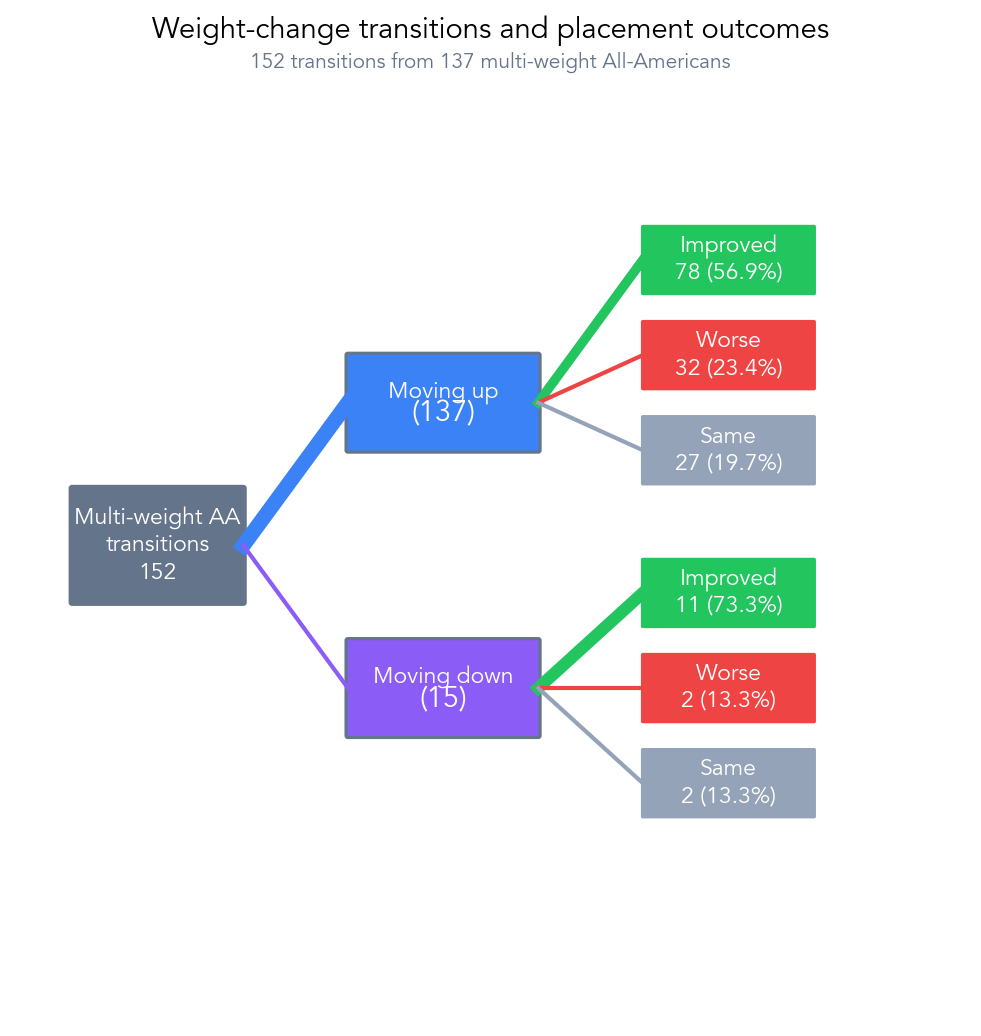
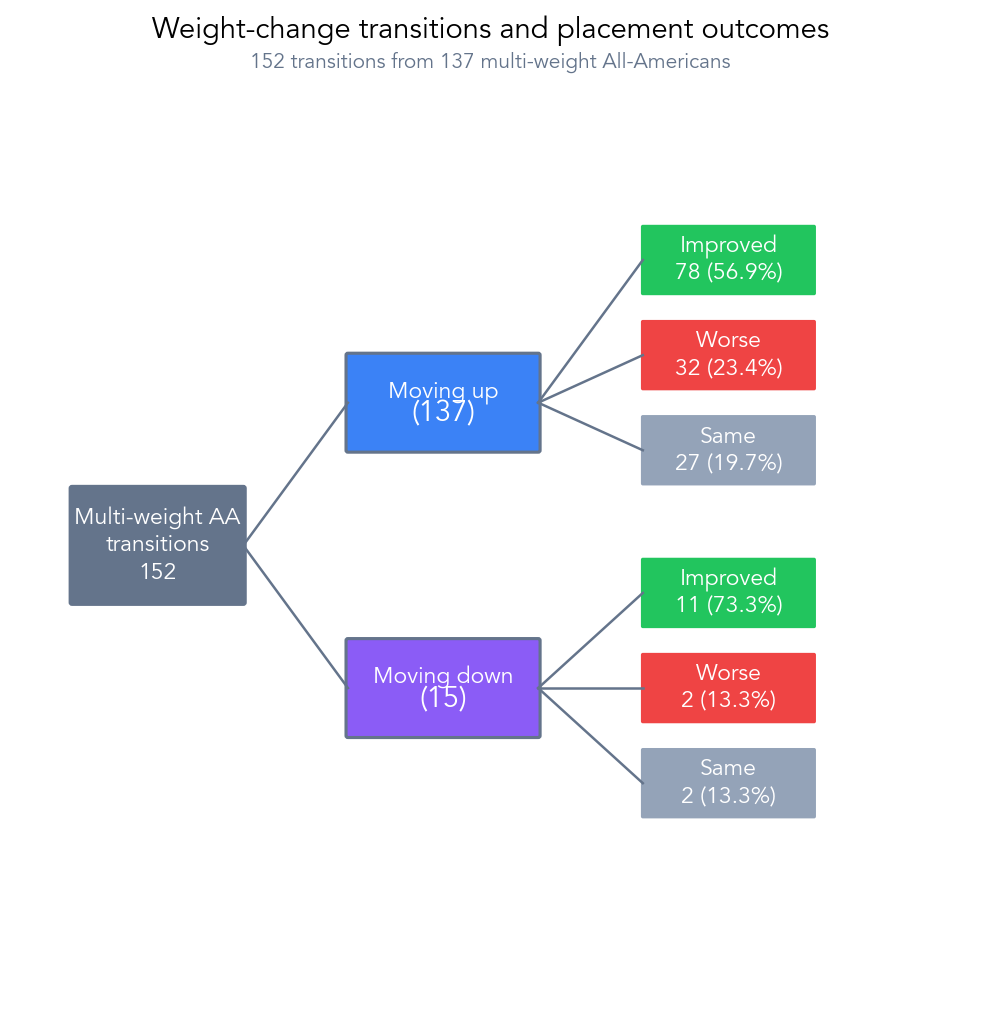
Fix expand title (118 Wrestlers), 3-column list, restore hover tooltip
- Expand heading: 'Wrestlers (n=118)' -> '118 Wrestlers'
- 3-column layout: add webkit prefixed column-count/gap for Safari
- Tooltip: add tooltip/expand CSS to site/styles.css; inject fallback styles in script

diff --git a/site/styles.css b/site/styles.css
@@ -131,69 +131,6 @@ tr:hover {
     background-color: #f7fafc;
 }
 
-/* Eligibility combo tables (Report 02: when AA/NC was earned by year) */
-.combo-tier-header {
-    text-align: center;
-    margin-top: 0;
-    margin-bottom: 0.5rem;
-}
-.eligibility-combo-table {
-    --combo-border: #94a3b8;
-    margin-bottom: 2.5rem;
-}
-.eligibility-combo-table:last-child {
-    margin-bottom: 1rem;
-}
-.eligibility-combo-table thead th {
-    background-color: #9ca3af;
-    color: #fff;
-    text-align: center;
-}
-/* Center Count and % columns in all combo tables */
-.eligibility-combo-table td:nth-child(6),
-.eligibility-combo-table td:nth-child(7) {
-    text-align: center;
-}
-.eligibility-combo-table th,
-.eligibility-combo-table td {
-    border-left: 1px solid var(--combo-border);
-    vertical-align: middle;
-}
-.eligibility-combo-table th:first-child,
-.eligibility-combo-table td:first-child {
-    border-left: none;
-}
-/* Subtle borders between eligibility columns (Fr–SSr) so they show on shaded cells */
-.eligibility-combo-table th:nth-child(-n+5),
-.eligibility-combo-table td:nth-child(-n+5) {
-    border-right: 1px solid var(--combo-border);
-}
-.eligibility-combo-table .combo-yes,
-.eligibility-combo-table .combo-no {
-    text-align: center;
-}
-.eligibility-combo-table .combo-yes {
-    background-color: #93c5fd;
-    border-radius: 6px;
-    font-size: 1.2em;
-}
-.eligibility-combo-table .combo-yes-nc {
-    background-color: #d4af37;
-    color: #1a1a1a;
-    border-radius: 6px;
-    text-align: center;
-    font-size: 1.2em;
-}
-.eligibility-combo-table .combo-no {
-    color: var(--color-text-muted);
-}
-.combo-names {
-    font-size: 0.8rem;
-    color: var(--color-text-muted);
-    margin-top: 0.25rem;
-    margin-bottom: 1rem;
-}
-
 /* Combo table rows with wrestler list: clickable, pointer cursor */
 .eligibility-combo-table tbody tr[data-wrestlers] {
     cursor: pointer;
@@ -271,6 +208,7 @@ tr:hover {
 @media (max-width: 600px) {
     .combo-expand-container .combo-expand-list {
         column-count: 2;
+        -webkit-column-count: 2;
     }
 }
 

diff --git a/notebooks/analysis.py b/notebooks/analysis.py
@@ -758,28 +758,24 @@ if len(transitions_df) > 0:
     for x, y, label, color in outcome_specs:
         draw_box(x, y, out_w, out_h, label, color, "white", borderless=True)
 
-    # Line widths: max(2, count/max_count * 8)
-    n_total = weight_move_stats["n_transitions"]
-    n_up = weight_move_stats["moves_up"]
-    n_down = weight_move_stats["moves_down"]
+    # Uniform thin connectors (single color)
     left_right = 1.5 + left_w / 2  # left box right edge
     mid_left = 4.5 - mid_w / 2
     mid_right = 4.5 + mid_w / 2
     right_left = 7.5 - out_w / 2
+    connector_color = FLOW_LEFT
+    connector_lw = 1.2
 
-    # Connectors: left -> middle (color by destination)
-    lw_up = max(2, n_up / n_total * 8)
-    lw_down = max(2, n_down / n_total * 8)
-    ax.plot([left_right, mid_left], [5, 6.5], color=FLOW_UP, lw=lw_up)
-    ax.plot([left_right, mid_left], [5, 3.5], color=FLOW_DOWN, lw=lw_down)
+    # Connectors: left -> middle
+    ax.plot([left_right, mid_left], [5, 6.5], color=connector_color, lw=connector_lw)
+    ax.plot([left_right, mid_left], [5, 3.5], color=connector_color, lw=connector_lw)
 
-    # Connectors: middle -> right (color by destination, lw by count)
-    up_outcomes = [(8.0, weight_move_stats["up_improved"], FLOW_GREEN), (7.0, weight_move_stats["up_worse"], FLOW_RED), (6.0, weight_move_stats["up_same"], FLOW_GREY)]
-    down_outcomes = [(4.5, weight_move_stats["down_improved"], FLOW_GREEN), (3.5, weight_move_stats["down_worse"], FLOW_RED), (2.5, weight_move_stats["down_same"], FLOW_GREY)]
+    # Connectors: middle -> right
+    up_outcomes = [(8.0, weight_move_stats["up_improved"]), (7.0, weight_move_stats["up_worse"]), (6.0, weight_move_stats["up_same"])]
+    down_outcomes = [(4.5, weight_move_stats["down_improved"]), (3.5, weight_move_stats["down_worse"]), (2.5, weight_move_stats["down_same"])]
     for mid_y, outcomes in [(6.5, up_outcomes), (3.5, down_outcomes)]:
-        for oy, count, dest_color in outcomes:
-            lw = max(2, count / (n_up if mid_y == 6.5 else n_down) * 8)
-            ax.plot([mid_right, right_left], [mid_y, oy], color=dest_color, lw=lw)
+        for oy, count in outcomes:
+            ax.plot([mid_right, right_left], [mid_y, oy], color=connector_color, lw=connector_lw)
     plt.tight_layout()
     flow_path = CHARTS_DIR / "weight_change_flow.png"
     flow_site_path = SITE_CHARTS_DIR / "weight_change_flow.png"
@@ -973,6 +969,14 @@ nc_combo_html_lines.append("""
   var expandContainer = null;
   var allRows = null;
 
+  function ensureTooltipStyles() {
+    if (document.getElementById('wrestler-tooltip-styles')) return;
+    var style = document.createElement('style');
+    style.id = 'wrestler-tooltip-styles';
+    style.textContent = '.wrestler-tooltip{position:fixed;background:#fff;border-radius:6px;box-shadow:0 4px 14px rgba(0,0,0,.12);padding:12px;font-size:0.85rem;line-height:1.5;max-height:400px;max-width:500px;overflow-y:auto;overflow-x:hidden;z-index:1000;pointer-events:none;border:1px solid #e2e8f0;white-space:normal}.wrestler-tooltip .wrestler-tooltip-title{font-weight:600;margin-bottom:6px;color:#1a1a1a}.wrestler-tooltip .wrestler-tooltip-list{margin:0;padding-left:1.2em}';
+    document.head.appendChild(style);
+  }
+
   function showTip(el, x, y) {
     var w = el.getAttribute('data-wrestlers');
     var n = el.getAttribute('data-count');
@@ -996,7 +1000,7 @@ nc_combo_html_lines.append("""
     tr.classList.add('combo-row-selected');
     var title = expandContainer.querySelector('.combo-expand-title');
     var list = expandContainer.querySelector('.combo-expand-list');
-    title.textContent = 'Wrestlers (n=' + n + ')';
+    title.textContent = n + ' Wrestlers';
     var names = w.split(/,\\s*/);
     list.innerHTML = names.map(function(name){ return '<li>' + name + '</li>'; }).join('');
     var table = tr.closest('table');
@@ -1012,6 +1016,7 @@ nc_combo_html_lines.append("""
   }
 
   document.addEventListener('DOMContentLoaded', function() {
+    ensureTooltipStyles();
     tip = document.createElement('div');
     tip.className = 'wrestler-tooltip';
     tip.innerHTML = '<div class="wrestler-tooltip-title"></div><ul class="wrestler-tooltip-list"></ul>';

diff --git a/docs/_includes/report_02_nc_eligibility_combos.md b/docs/_includes/report_02_nc_eligibility_combos.md
@@ -223,6 +223,14 @@
   var expandContainer = null;
   var allRows = null;
 
+  function ensureTooltipStyles() {
+    if (document.getElementById('wrestler-tooltip-styles')) return;
+    var style = document.createElement('style');
+    style.id = 'wrestler-tooltip-styles';
+    style.textContent = '.wrestler-tooltip{position:fixed;background:#fff;border-radius:6px;box-shadow:0 4px 14px rgba(0,0,0,.12);padding:12px;font-size:0.85rem;line-height:1.5;max-height:400px;max-width:500px;overflow-y:auto;overflow-x:hidden;z-index:1000;pointer-events:none;border:1px solid #e2e8f0;white-space:normal}.wrestler-tooltip .wrestler-tooltip-title{font-weight:600;margin-bottom:6px;color:#1a1a1a}.wrestler-tooltip .wrestler-tooltip-list{margin:0;padding-left:1.2em}';
+    document.head.appendChild(style);
+  }
+
   function showTip(el, x, y) {
     var w = el.getAttribute('data-wrestlers');
     var n = el.getAttribute('data-count');
@@ -246,7 +254,7 @@
     tr.classList.add('combo-row-selected');
     var title = expandContainer.querySelector('.combo-expand-title');
     var list = expandContainer.querySelector('.combo-expand-list');
-    title.textContent = 'Wrestlers (n=' + n + ')';
+    title.textContent = n + ' Wrestlers';
     var names = w.split(/,\s*/);
     list.innerHTML = names.map(function(name){ return '<li>' + name + '</li>'; }).join('');
     var table = tr.closest('table');
@@ -262,6 +270,7 @@
   }
 
   document.addEventListener('DOMContentLoaded', function() {
+    ensureTooltipStyles();
     tip = document.createElement('div');
     tip.className = 'wrestler-tooltip';
     tip.innerHTML = '<div class="wrestler-tooltip-title"></div><ul class="wrestler-tooltip-list"></ul>';
